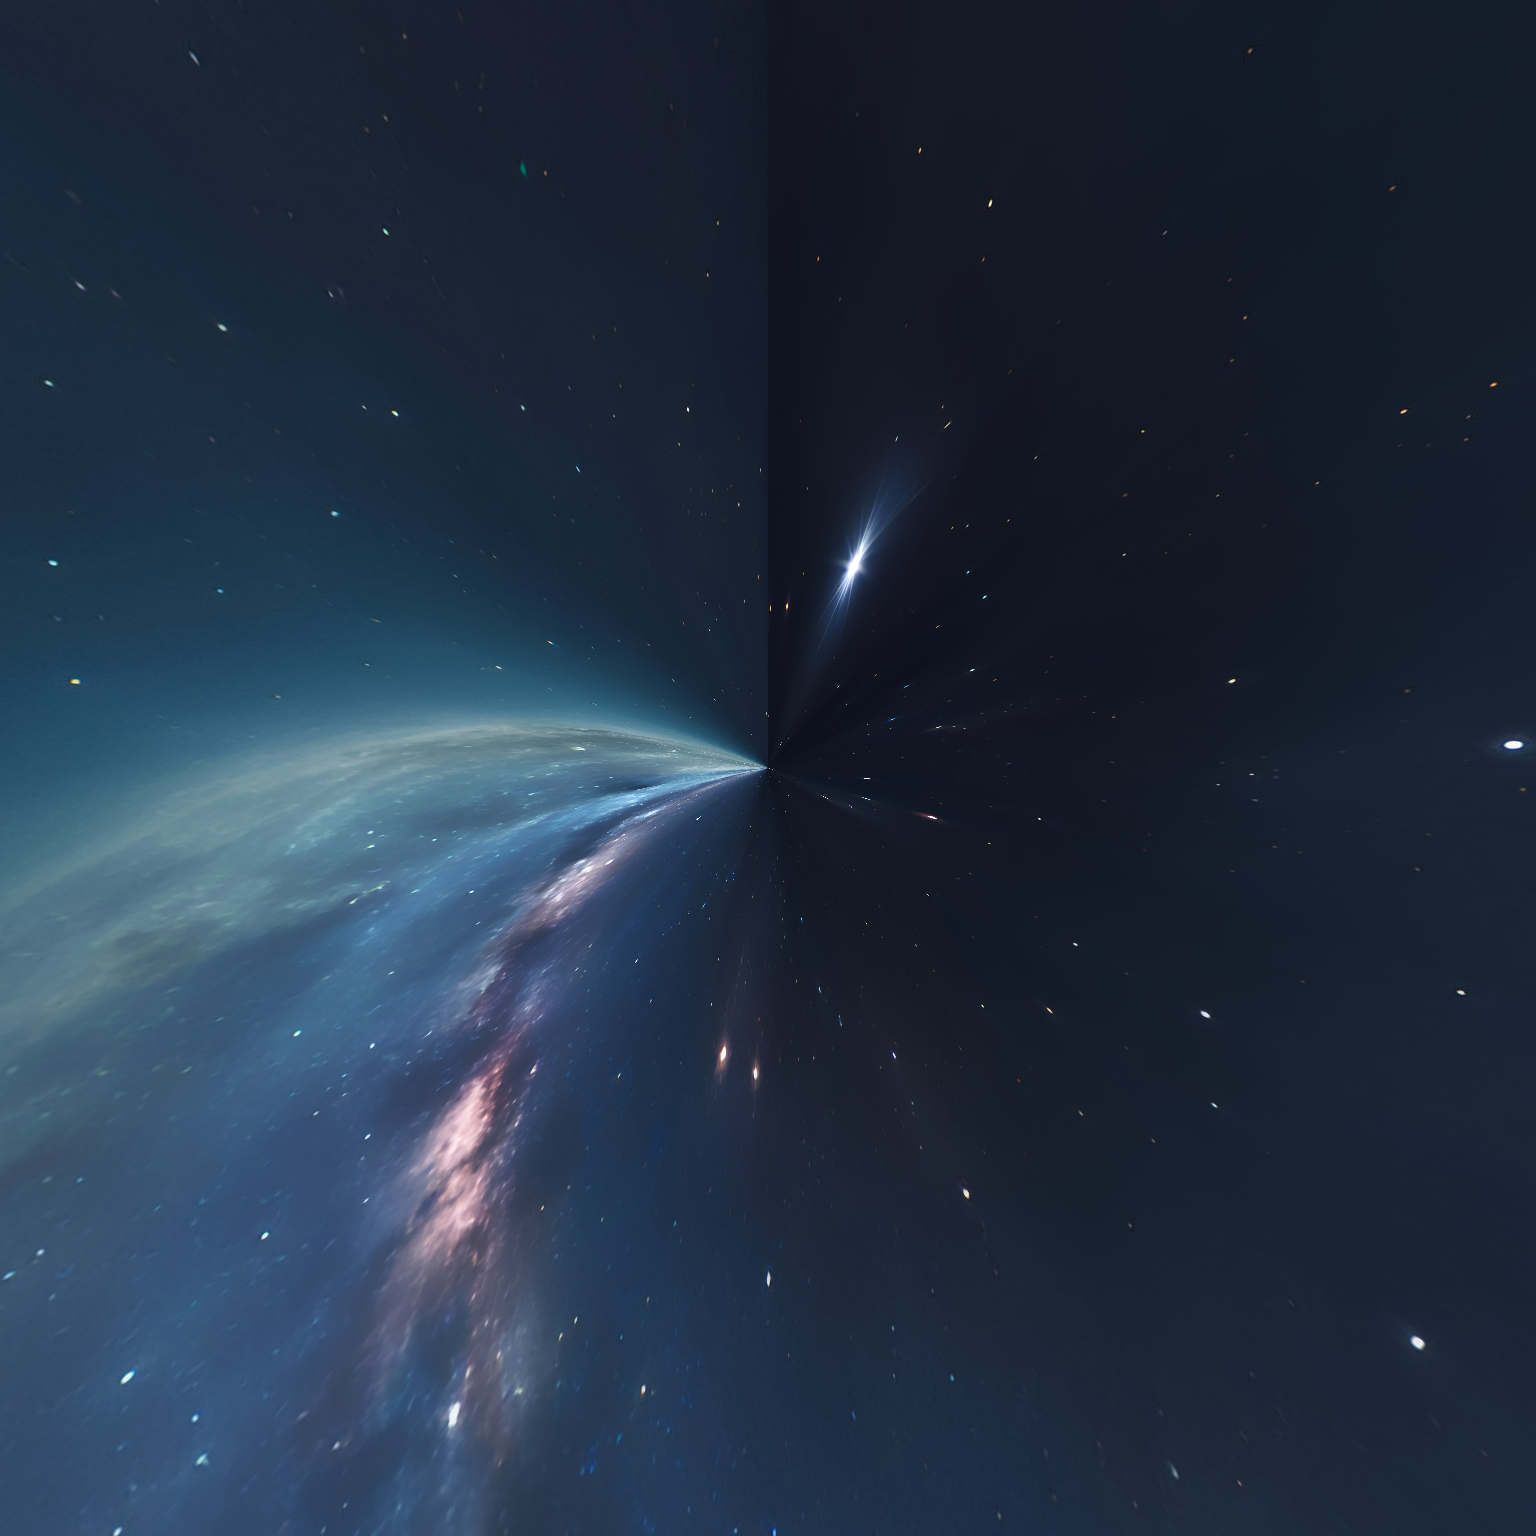
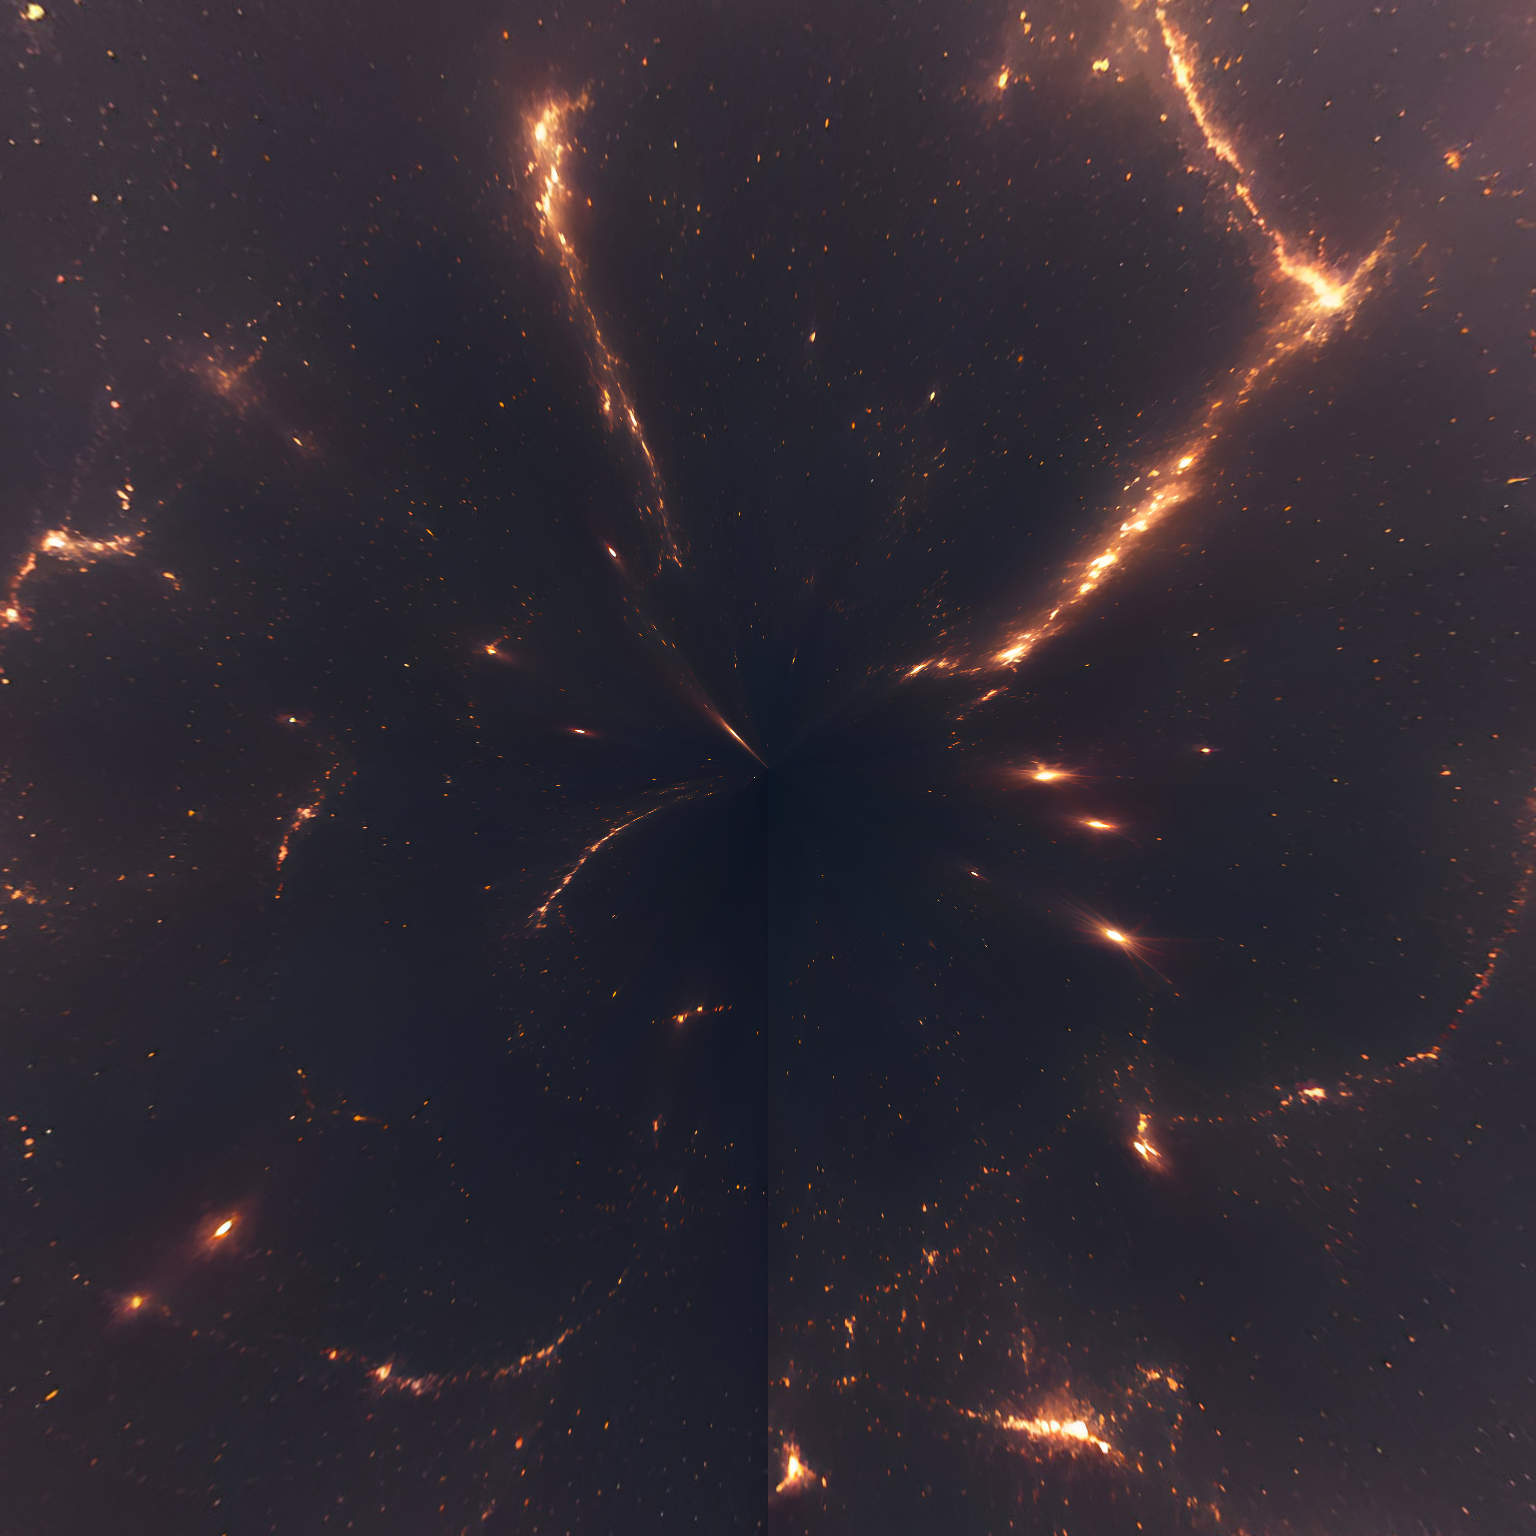
01.22 background, green_rubber
01.22 background, green_rubber

diff --git a/code.js b/code.js
@@ -16,9 +16,10 @@ let depth = 6;
 async function main() {
     let { canvas, device, context, presentationFormat, canTimestamp } = await initializeWebGPU();
     const camera = new Camera();
+    const skyboxCamera = new Camera();
     let keyValue = 1;
     canvas, keyValue = mouse_move(canvas, camera);
-    addkeyboardEvent(camera)
+    addkeyboardEvent(camera);
 
     let { settings, lightPosition } = initializeScene(camera);
 
@@ -427,12 +428,6 @@ async function main() {
         let texture = await createTextureFromImages(
             device,
             [
-              // 'https://webgpufundamentals.org/webgpu/resources/images/leadenhall_market/pos-x.jpg',
-              // 'https://webgpufundamentals.org/webgpu/resources/images/leadenhall_market/neg-x.jpg',  
-              // 'https://webgpufundamentals.org/webgpu/resources/images/leadenhall_market/pos-y.jpg',  
-              // 'https://webgpufundamentals.org/webgpu/resources/images/leadenhall_market/neg-y.jpg',  
-              // 'https://webgpufundamentals.org/webgpu/resources/images/leadenhall_market/pos-z.jpg',  
-              // 'https://webgpufundamentals.org/webgpu/resources/images/leadenhall_market/neg-z.jpg',  
               `./${backgroundString}/px.png`,  
               `./${backgroundString}/nx.png`,  
               `./${backgroundString}/py.png`,  
@@ -507,8 +502,7 @@ async function main() {
         then = now;
 
         const startTime = performance.now();
-
-
+        
         let lastString = settings.getProterty('object');
         let lastBackgroundString = settings.getProterty('background');
 
@@ -611,63 +605,65 @@ async function main() {
         renderPassDescriptor.depthStencilAttachment.view = depthTexture.createView();
         renderPassDescriptor2.depthStencilAttachment.view = depthTexture.createView();
 
-
-
-
-
-
-
-
-
-
-        
-        
-            const aspect = canvas.clientWidth / canvas.clientHeight;
-            mat4.perspective(
-                60 * Math.PI / 180,
-                aspect,
-                0.1,      // zNear
-                10,      // zFar
-                projectionValue,
-            );
-            // Camera going in circle from origin looking at origin
-            cameraPositionValue.set([Math.cos(now * .1) * 5, 0, Math.sin(now * .1) * 5]);
-            const view = mat4.lookAt(
-              cameraPositionValue,
-              [0, 0, 0],  // target
-              [0, 1, 0],  // up
-            );
-            // Copy the view into the viewValue since we're going
-            // to zero out the view's translation
-            viewValue2.set(view);
-        
-            // We only care about direction so remove the translation
-            view[12] = 0;
-            view[13] = 0;
-            view[14] = 0;
-            const viewProjection = mat4.multiply(projectionValue, view);
-            mat4.inverse(viewProjection, viewDirectionProjectionInverseValue);
-        
-            // upload the uniform values to the uniform buffers
-            device.queue.writeBuffer(skyBoxUniformBuffer, 0, skyBoxUniformValues);
-
-
-
-
-
-
-
-
-
-
-
-
-
         const matrix = mat4.create();
         mat4.multiply(matrix, camera.getViewMatrix(), camera.getProjectionMatrix());
 
         camera.update();
         mat4.multiply(camera.getProjectionMatrix(), camera.getViewMatrix(), matrixValue);
+
+
+
+
+
+
+
+
+
+
+
+
+        
+        const aspect = canvas.clientWidth / canvas.clientHeight;
+        mat4.perspective(
+            60 * Math.PI / 180,
+            aspect,
+            0.1,      // zNear
+            10,      // zFar
+            projectionValue,
+        );
+        // Camera going in circle from origin looking at origin
+        cameraPositionValue.set([Math.cos(now * 0.02) * 5, Math.sin(now * 0.04) * 3, Math.sin(now * 0.02) * 5]);
+        const view = mat4.lookAt(
+          cameraPositionValue,
+          [0, 0, 0],  // target
+          [0, 1, 0],  // up
+        );
+        // Copy the view into the viewValue since we're going
+        // to zero out the view's translation
+        viewValue2.set(view);
+    
+        // We only care about direction so remove the translation
+        view[12] = 0;
+        view[13] = 0;
+        view[14] = 0;
+        const viewProjection = mat4.multiply(projectionValue, view);
+        mat4.inverse(viewProjection, viewDirectionProjectionInverseValue);
+    
+        // upload the uniform values to the uniform buffers
+        device.queue.writeBuffer(skyBoxUniformBuffer, 0, skyBoxUniformValues);
+
+
+
+
+
+
+
+
+
+
+
+
+
 
         keyValue = settings.getProterty('moveSpeed');
         if(lightPosition.getProterty('lightIsView') == true)
@@ -694,7 +690,7 @@ async function main() {
             case 'normal': { colorValue[0] = 1; break; }
             case 'level': { colorValue[0] = 2; break; }
             case 'displacement_texture': { colorValue[0] = 4; break; }
-            case 'webCam_texture': { colorValue[0] = 8; break; }
+            case 'green_rubber': { colorValue[0] = 8; break; }
         }
         if(lightPosition.getProterty('lightActive') == true)
             colorValue[1] = 1;

diff --git a/src/pipelines.js b/src/pipelines.js
@@ -583,7 +583,7 @@ export async function createPipelines(device, presentationFormat) {
             else if(uni.color.x == 4) { return_color = vec4f(vsOut.texcoord1.xxx*5-2.5, 1); }
             // else if(uni.color.x == 8) { return_color = getTexture(object_normal_texture, sampler0, vsOut.texcoord, 0); }
             // else if(uni.color.x == 8) { return_color = vec4f(0, 0.5, 0, 1.0); }
-            else if(uni.color.x == 8) { return_color = getTexture(webCam_texture, sampler0, vsOut.position2.yz, 0); }
+            // else if(uni.color.x == 8) { return_color = getTexture(webCam_texture, sampler0, vsOut.position2.yz, 0); }
             else { return_color = vec4f(vsOut.color); }
 
             let view = vsOut.view;
@@ -603,18 +603,20 @@ export async function createPipelines(device, presentationFormat) {
             {
                 return vec4f(0, 0, 0, 1);
             }
-            // if(vsOut.normal.z < 0.0) {discard;}
-            // var l:vec3f = normalize(vsOut.view.xyz);
-            // var n = vsOut.normal;
-            // var l_dot_n: f32 = max(dot(l, n), 0.0);
-            // var ambient: vec3f = vec3f(0.0, 0.05, 0.0);
-            // var diffuse: vec3f = vec3f(0.4, 0.5, 0.4) * l_dot_n;
-            // var specular: vec3f = vec3f(0, 0, 0);
-            // if(l_dot_n > 0)
-            // {
-            //     specular = vec3f(0.04,0.7,0.04) * pow(max(dot(l, n), 0), 2.5);
-            // }
-            // return_color = vec4f((ambient + diffuse + specular), 1.0);
+            if(uni.color.x == 8)
+            {
+                var l:vec3f = normalize(vsOut.view.xyz);
+                var n = normal;
+                var l_dot_n: f32 = max(dot(l, n), 0.0);
+                var ambient: vec3f = vec3f(0.0, 0.05, 0.0);
+                var diffuse: vec3f = vec3f(0.4, 0.5, 0.4) * l_dot_n;
+                var specular: vec3f = vec3f(0, 0, 0);
+                if(l_dot_n > 0)
+                {
+                    specular = vec3f(0.04,0.7,0.04) * pow(max(dot(l, n), 0), 2.5);
+                }
+                return_color = vec4f((ambient + diffuse + specular), 1.0);
+            }
             return return_color;
         }
         `,
@@ -752,7 +754,7 @@ export async function createPipelines(device, presentationFormat) {
             // else if(uni.color.x == 8) { return_color = getTexture(object_normal_texture, sampler0, vsOut.texcoord, 0); }
             // else if(uni.color.x == 8) { return_color = vec4f(0.753, 0.753, 0.753, 1.0); }
             // else if(uni.color.x == 8) { return_color = vec4f(0, 0.5, 0, 1.0); }
-            else if(uni.color.x == 8) { return_color = getTexture(webCam_texture, sampler0, vsOut.position2.yz, 0); }
+            // else if(uni.color.x == 8) { return_color = getTexture(webCam_texture, sampler0, vsOut.position2.yz, 0); }
             else { return_color = vec4f(vsOut.color); }
 
             let view = vsOut.view;
@@ -768,18 +770,21 @@ export async function createPipelines(device, presentationFormat) {
                     return_color += vec4f(highlight, 1);
                 }
             }
-            // if(vsOut.normal.z < 0.0) {discard;}
-            // var l:vec3f = normalize(vsOut.view.xyz);
-            // var n = vsOut.normal;
-            // var l_dot_n: f32 = max(dot(l, n), 0.0);
-            // var ambient: vec3f = vec3f(0.0, 0.05, 0.0);
-            // var diffuse: vec3f = vec3f(0.4, 0.5, 0.4) * l_dot_n;
-            // var specular: vec3f = vec3f(0, 0, 0);
-            // if(l_dot_n > 0)
-            // {
-            //     specular = vec3f(0.04,0.7,0.04) * pow(max(dot(l, n), 0), 2.5);
-            // }
-            // return_color = vec4f((ambient + diffuse + specular), 1.0);
+            
+            if((uni.color.x == 8))
+            {
+                var l:vec3f = normalize(vsOut.view.xyz);
+                var n = normal;
+                var l_dot_n: f32 = max(dot(l, n), 0.0);
+                var ambient: vec3f = vec3f(0.0, 0.05, 0.0);
+                var diffuse: vec3f = vec3f(0.4, 0.5, 0.4) * l_dot_n;
+                var specular: vec3f = vec3f(0, 0, 0);
+                if(l_dot_n > 0)
+                {
+                    specular = vec3f(0.04,0.7,0.04) * pow(max(dot(l, n), 0), 2.5);
+                }
+                return_color = vec4f((ambient + diffuse + specular), 1.0);
+            }
             return return_color;
         }
         `,

diff --git a/src/gui.js b/src/gui.js
@@ -19,9 +19,9 @@ export class Settings {
 
     addGui(gui) {
         gui.add(this.settings, 'object', ['monsterfrog', 'ninja_head', 'sphere']).name('object')
-        gui.add(this.settings, 'background', ['space', 'laboratory']).name('background')
+        gui.add(this.settings, 'background', ['space', 'laboratory', 'leadenhall_market']).name('background')
         gui.add(this.settings, 'pipelineSetting', ['V', 'L', 'F']).name('Pipeline V or L or F')// .onChange((name, value) => this.onRadioChange('pipelineSetting', value));
-        gui.add(this.settings, 'color', ['position', 'normal', 'level', 'displacement_texture', 'webCam_texture']).name('Color')// .onChange((name, value) => this.onRadioChange('pipelineSetting', value));
+        gui.add(this.settings, 'color', ['position', 'normal', 'level', 'displacement_texture', 'green_rubber']).name('Color')// .onChange((name, value) => this.onRadioChange('pipelineSetting', value));
         gui.add(this.settings, 'tesselation', 0, 6, 1).name('tesselation').step(1)// .onChange((name, value) => this.onSliderChange('tesselation', value));
         gui.add(this.settings, 'ordinaryLevel', 0, 6, 1).name('ordinaryLevel').step(1)// .onChange((name, value) => this.onSliderChange('ordinaryLevel', value));
 
